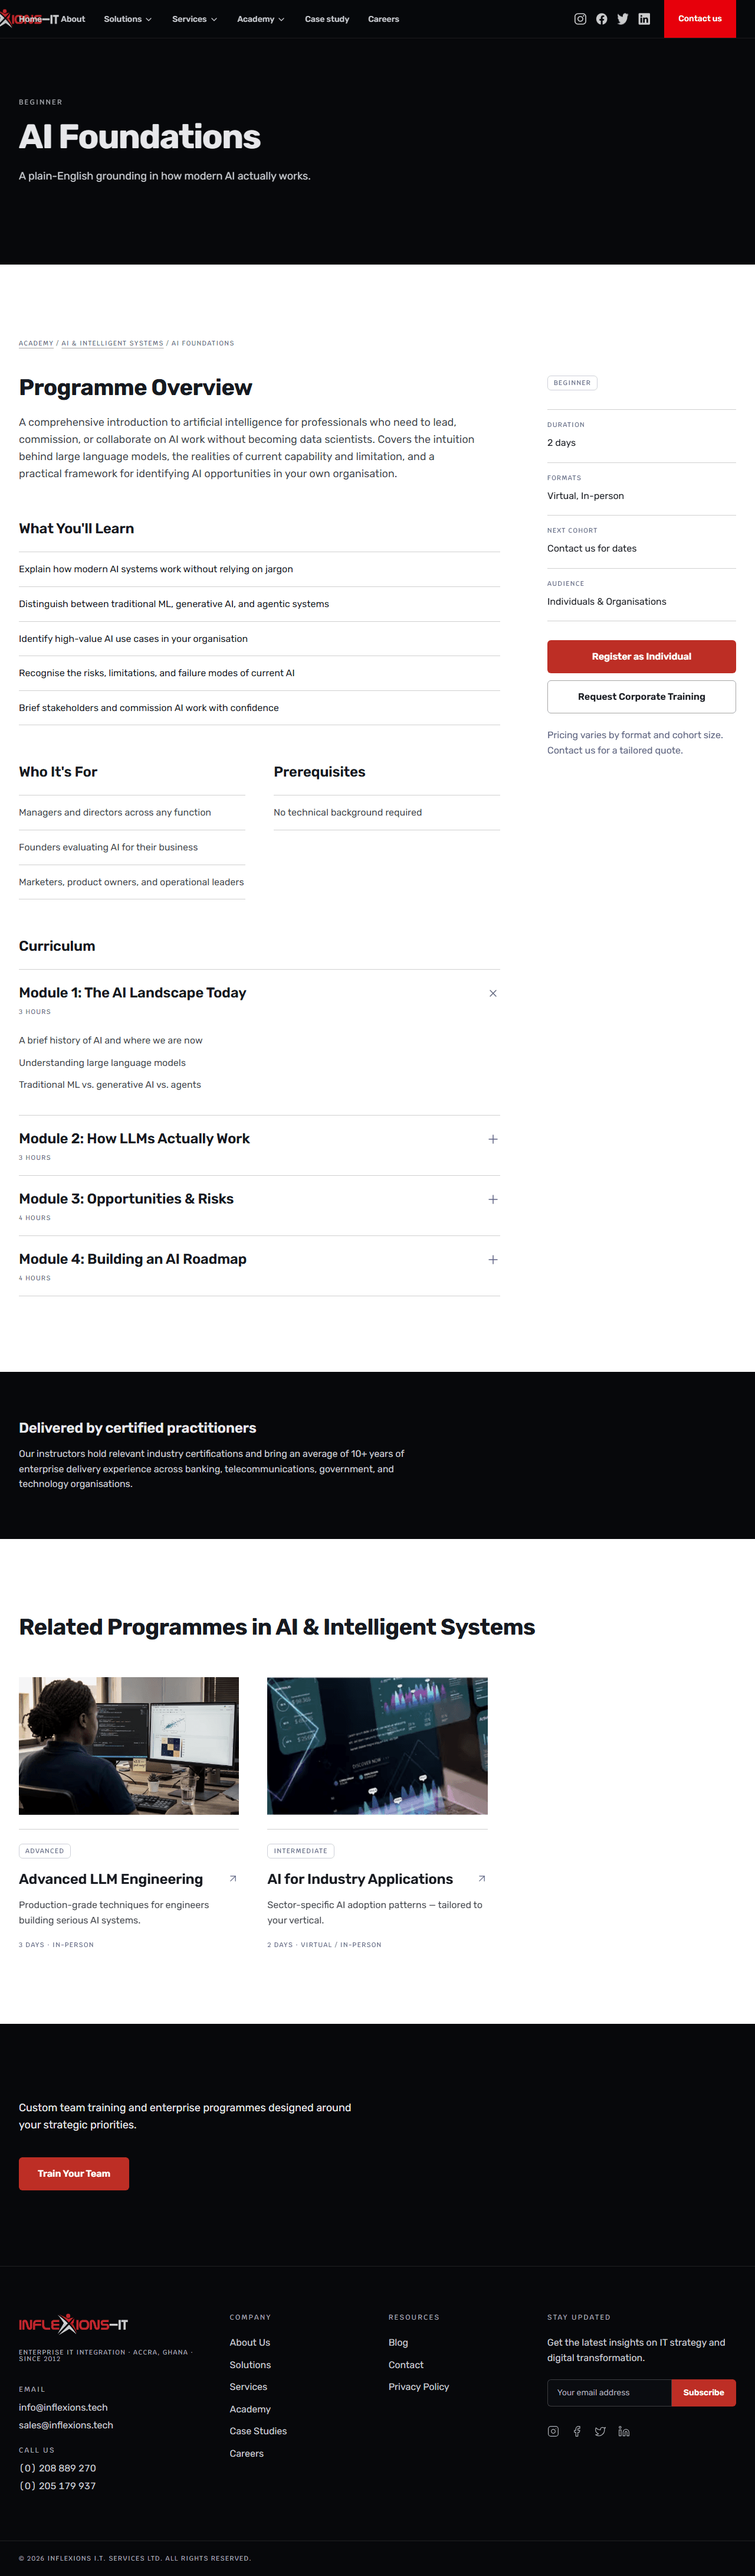
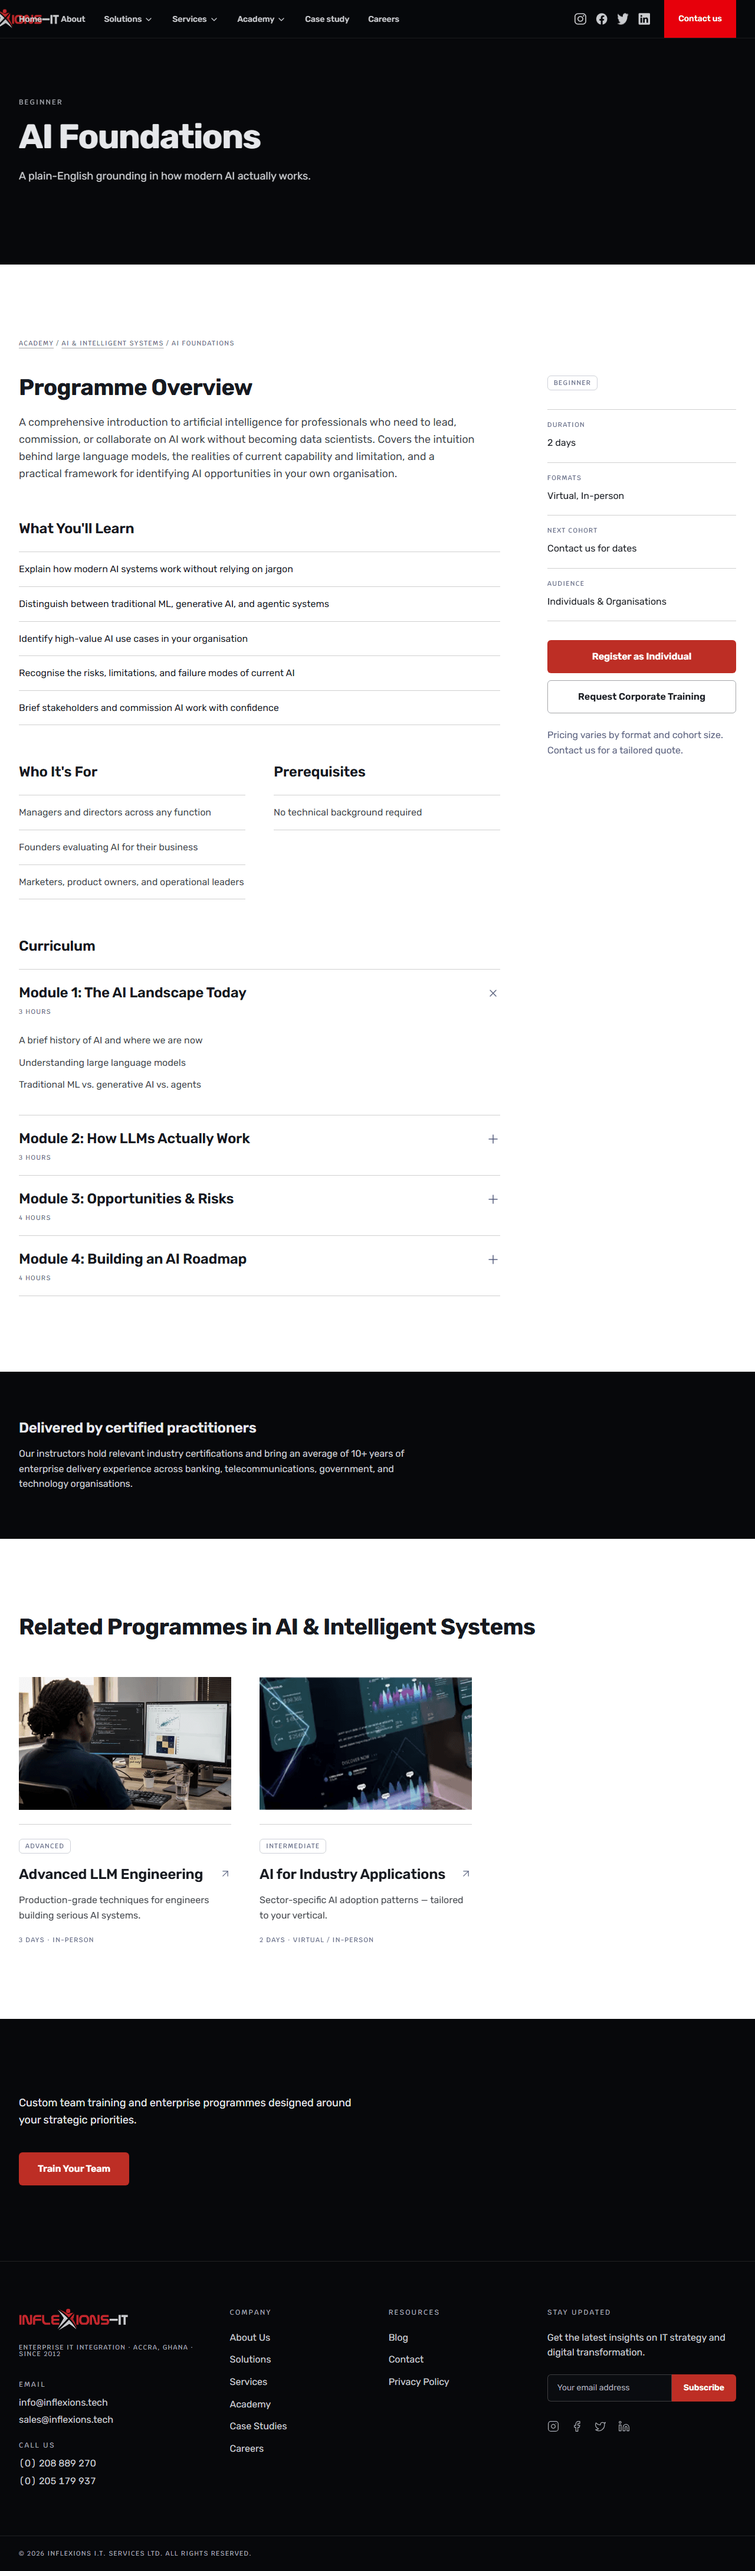
phase5(fix): grids stop where the entries do
Found by rendering /resources and /case-studies/[id], which fall outside
the brief's screenshot list and which nothing but tsc had seen.

Several lists are shorter than the grid they sat in. There are two case
studies, so "Related Case Studies" is always exactly one entry in three
columns; two of the four Academy domains hold two programmes, so their
catalogue and their related list under-fill as well; and /resources has
two whitepapers. Each left a row two-thirds empty, which reads as
content that failed to load rather than as a short list.

entryGrid sizes the columns to the count and keeps the entry at roughly
the width it has in a full row. Checked across fifteen routes: no grid
has fewer children than columns.

diff --git a/src/app/components/entryGrid.ts b/src/app/components/entryGrid.ts
@@ -1,0 +1,19 @@
+/**
+ * Column classes for a grid of entries, sized to how many there are.
+ *
+ * Several lists on the site are shorter than the grid they were given.
+ * There are two case studies, so "Related Case Studies" is always exactly
+ * one; two of the four Academy domains hold two programmes, so their
+ * "Related Programmes" is one; and /resources has two whitepapers. In a
+ * three-column grid each of those leaves the row two-thirds empty, which
+ * reads as content that failed to load rather than as a short list.
+ *
+ * The entry keeps roughly the width it has in a full row, and the grid
+ * stops where the entries do. The classes are spelled out rather than
+ * built, because Tailwind scans source text for class names.
+ */
+export function entryGrid(count: number): string {
+  if (count >= 3) return "sm:grid-cols-2 lg:grid-cols-3";
+  if (count === 2) return "sm:grid-cols-2 lg:max-w-3xl";
+  return "max-w-sm";
+}

diff --git a/src/app/case-studies/[id]/page.tsx b/src/app/case-studies/[id]/page.tsx
@@ -7,6 +7,7 @@ import { ArrowUpRight } from "lucide-react";
 import AskBand from "../../components/AskBand";
 import PageHero from "../../components/PageHero";
 import ExitLink from "../../components/home/ExitLink";
+import { entryGrid } from "../../components/entryGrid";
 import { caseStudies } from "../../data";
 
 /**
@@ -206,7 +207,7 @@ export default function CaseStudyDetailPage() {
             <div className="border-t border-neutral-200 pt-16">
               <h2 className="type-h2 text-neutral-900">Related Case Studies</h2>
 
-              <div className="mt-12 grid gap-x-12 gap-y-16 sm:grid-cols-2 lg:grid-cols-3">
+              <div className={`mt-12 grid gap-x-12 gap-y-16 ${entryGrid(related.length)}`}>
                 {related.map((item) => (
                   <article key={item.id} className="group relative">
                     <div className="relative aspect-[16/9] overflow-hidden">

diff --git a/src/app/academy/[domain]/[programme]/page.tsx b/src/app/academy/[domain]/[programme]/page.tsx
@@ -7,6 +7,7 @@ import JsonLd from "../../../components/JsonLd";
 import PageHero from "../../../components/PageHero";
 import ProgrammeCard from "../../../components/ProgrammeCard";
 import ProgrammeDetailsSidebar from "../../../components/ProgrammeDetailsSidebar";
+import { entryGrid } from "../../../components/entryGrid";
 import {
   programmes,
   getDomain,
@@ -192,7 +193,7 @@ export default async function ProgrammeDetailPage({
             <h2 className="type-h2 text-neutral-900">
               Related Programmes in {domain.shortTitle}
             </h2>
-            <div className="mt-16 grid gap-x-12 gap-y-16 md:grid-cols-3">
+            <div className={`mt-16 grid gap-x-12 gap-y-16 ${entryGrid(related.length)}`}>
               {related.map((rel) => (
                 <ProgrammeCard key={rel.slug} programme={rel} />
               ))}

diff --git a/src/app/academy/[domain]/page.tsx b/src/app/academy/[domain]/page.tsx
@@ -7,6 +7,7 @@ import Link from "next/link";
 import AskBand from "../../components/AskBand";
 import PageHero from "../../components/PageHero";
 import ProgrammeCard from "../../components/ProgrammeCard";
+import { entryGrid } from "../../components/entryGrid";
 import ExitLink from "../../components/home/ExitLink";
 import { domains, getDomain, getProgrammesByDomain } from "../data";
 
@@ -142,7 +143,7 @@ export default async function DomainPage({
             </p>
           </div>
 
-          <div className="mt-16 grid gap-x-12 gap-y-16 md:grid-cols-2 lg:grid-cols-3">
+          <div className={`mt-16 grid gap-x-12 gap-y-16 ${entryGrid(domainProgrammes.length)}`}>
             {domainProgrammes.map((programme) => (
               <ProgrammeCard key={programme.slug} programme={programme} />
             ))}

diff --git a/src/app/resources/page.tsx b/src/app/resources/page.tsx
@@ -5,6 +5,7 @@ import Reveal from "@/motion/Reveal";
 import AskBand from "../components/AskBand";
 import Blog from "../components/Blog";
 import PageHero from "../components/PageHero";
+import { entryGrid } from "../components/entryGrid";
 
 /**
  * /resources — PHASE5_BRIEF.md §4 Task 6.
@@ -98,7 +99,7 @@ export default function ResourcesPage() {
             In-Depth Guides &amp; Reports
           </h2>
 
-          <div className="mt-16 grid gap-x-12 gap-y-16 sm:grid-cols-2 lg:grid-cols-3">
+          <div className={`mt-16 grid gap-x-12 gap-y-16 ${entryGrid(whitepapers.length)}`}>
             {whitepapers.map((item) => (
               <article key={item.id} className="group relative flex flex-col">
                 <div className="relative aspect-[16/10] overflow-hidden">

diff --git a/src/app/components/RelatedTraining.tsx b/src/app/components/RelatedTraining.tsx
@@ -2,6 +2,7 @@ import Link from "next/link";
 import { ArrowUpRight } from "lucide-react";
 import Reveal from "@/motion/Reveal";
 import ExitLink from "./home/ExitLink";
+import { entryGrid } from "./entryGrid";
 import { programmes, getDomain } from "../academy/data";
 
 /**
@@ -59,7 +60,7 @@ export default function RelatedTraining({
             </ExitLink>
           </div>
 
-          <ul className="mt-12 grid gap-x-12 gap-y-8 md:grid-cols-3">
+          <ul className={`mt-12 grid gap-x-12 gap-y-8 ${entryGrid(related.length)}`}>
             {related.map((programme) => (
               <li key={programme.slug} className="group relative border-t border-neutral-200 pt-6">
                 <p className="type-telemetry text-neutral-500">

diff --git a/PHASE5_REPORT.md b/PHASE5_REPORT.md
@@ -26,6 +26,8 @@ All ten tasks are complete. No pull request opened, nothing merged.
 | Reduced motion: every page reads complete | **Yes.** Section 4. |
 | Screenshots at 1280 and 390 px | [docs/phase5/](docs/phase5/), 24 files. Index in Section 9. |
 
+Two routes this branch rewrote fall outside the brief's screenshot list and so were checked separately after the fact: `/resources` and `/case-studies/[id]`. Both pass every automated check above, and both turned up the grid problem recorded in Section 7.8.
+
 ---
 
 ## 2. Bundles
@@ -152,7 +154,9 @@ Note that `.gitignore:49` excludes `assets-src/unreferenced/`, by the project's 
 4. **The four pillar pages and the three service pages were each collapsed onto one shared layout** (`SolutionPage`, `ServicePage`). They were copies of one layout that had drifted apart in the details; as copies, the tokens would have had to be got right four and three times.
 5. **A dead status test was removed on the case-study detail page.** It compared `study.status` to a lower-case `"completed"` that `data.ts` never contains, so the delivered study rendered in the "in progress" amber. The pill went with the redesign; the bug went with it.
 6. **`/solutions`' photo strip was folded into the four domain entries.** The strip repeated the four domains that were already listed above it, as pictures with a red "Premium Solutions" label. Folding the photographs into the entries keeps every image and removes the duplication.
-7. **`PageHero` carries no scrim over the formation still.** The brief describes the still and the copy column overlapping. Measured across all five stills, the left 45% of the frame has a maximum luminance of 7 of 255, so the copy already has its contrast and a wash would only dim the object the band exists to show.
+7. **Five grids were made count-aware** (`components/entryGrid.ts`). Found by rendering `/resources` and `/case-studies/[id]`, which the brief's screenshot list did not cover and which nothing but tsc had seen. Several lists are shorter than the grid they sat in: there are two case studies, so "Related Case Studies" is always exactly one entry in three columns; two of the four Academy domains hold two programmes, so their catalogue and their "Related Programmes" under-fill too; and `/resources` has two whitepapers. Each left a row two-thirds empty, which reads as content that failed to load. The grid now stops where the entries do. Verified across fifteen routes: no grid anywhere has fewer children than columns.
+
+8. **`PageHero` carries no scrim over the formation still.** The brief describes the still and the copy column overlapping. Measured across all five stills, the left 45% of the frame has a maximum luminance of 7 of 255, so the copy already has its contrast and a wash would only dim the object the band exists to show.
 
 ---
 
